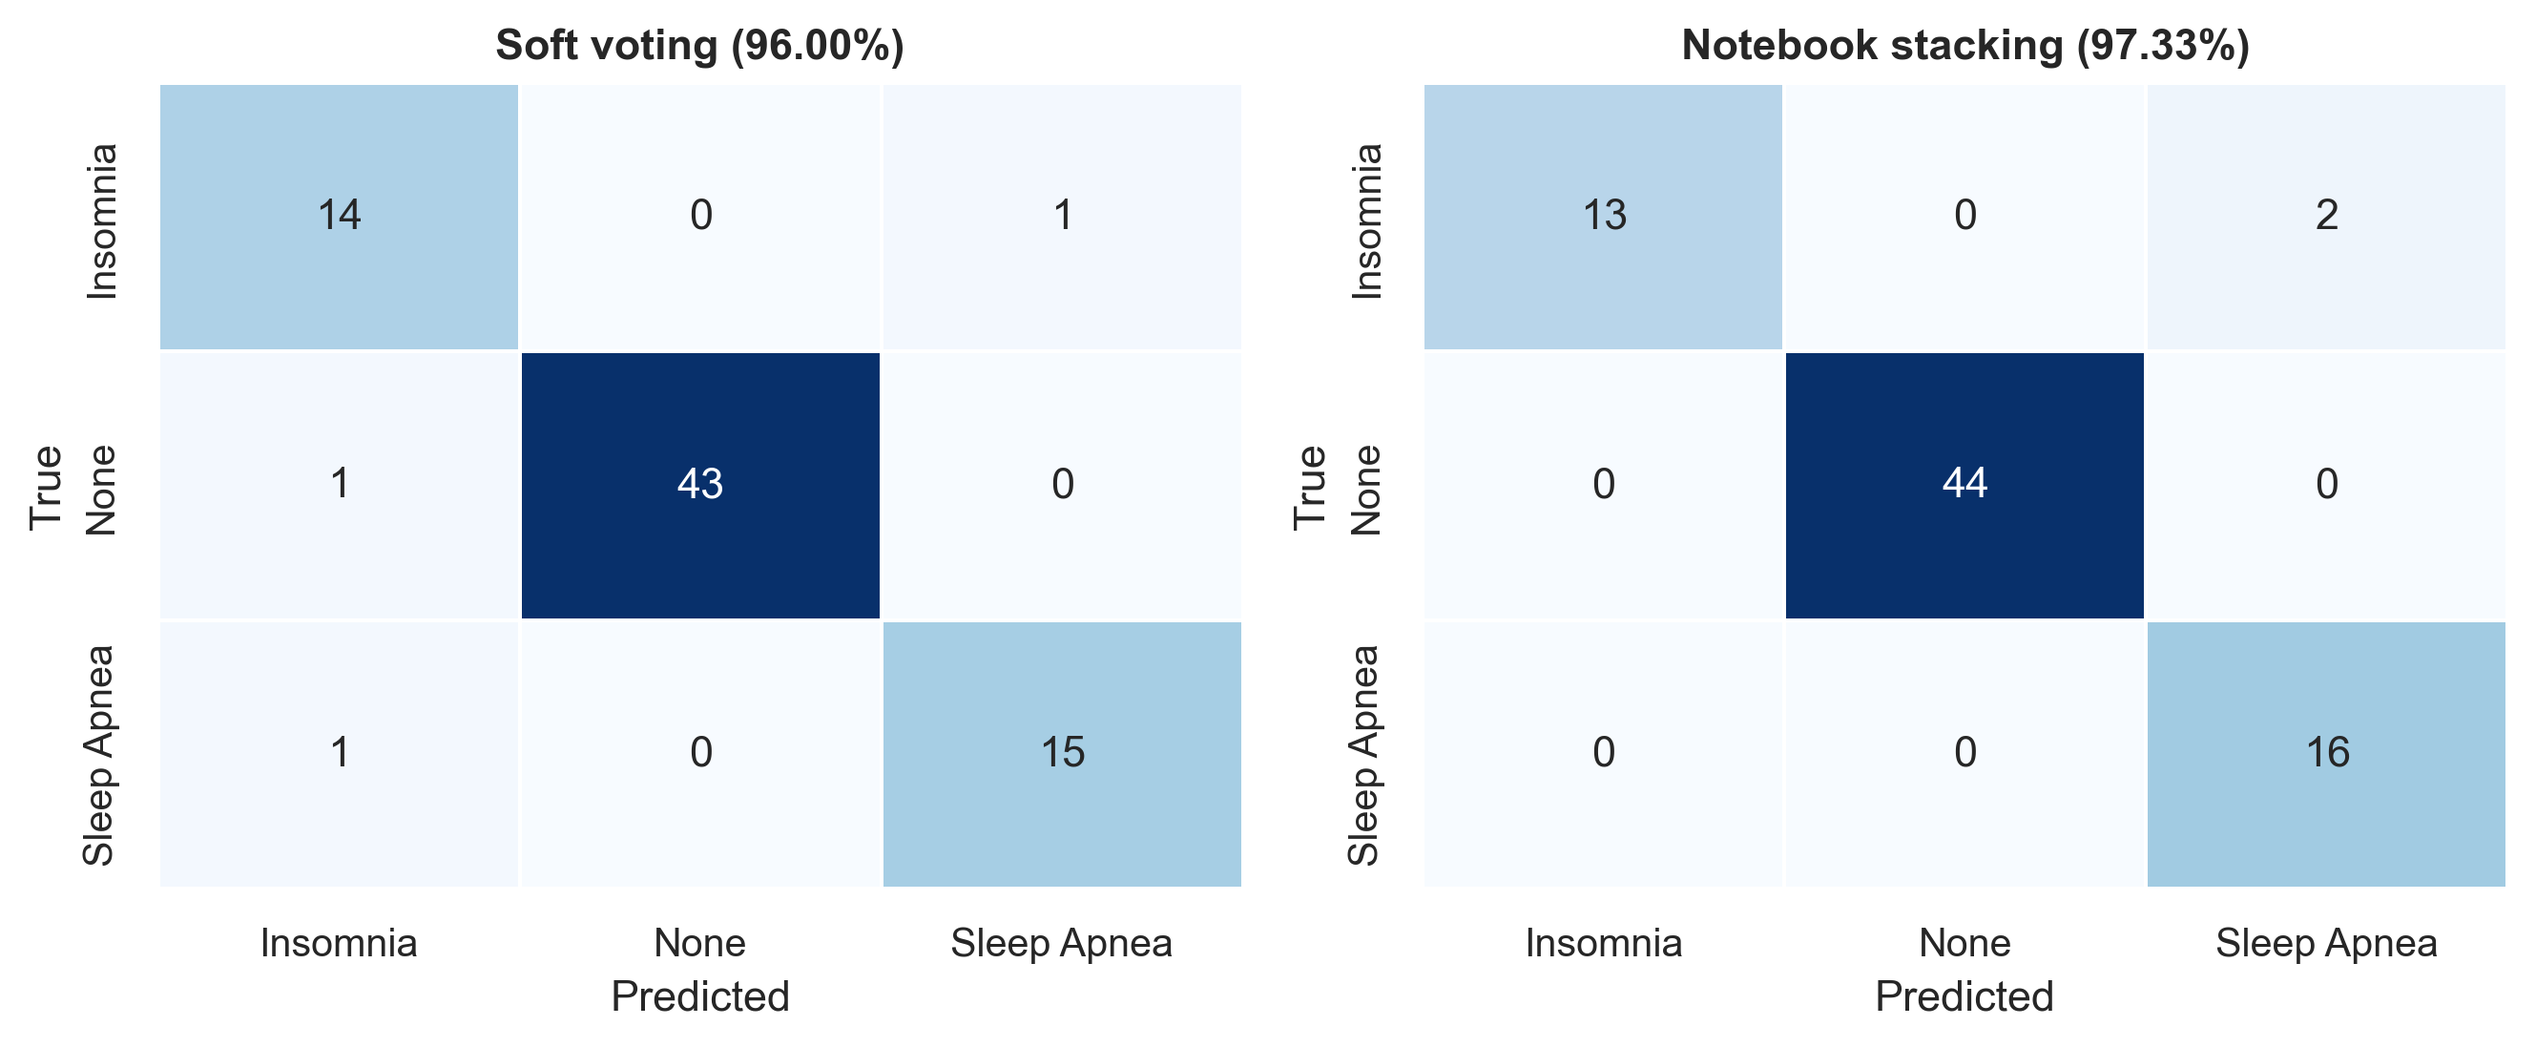
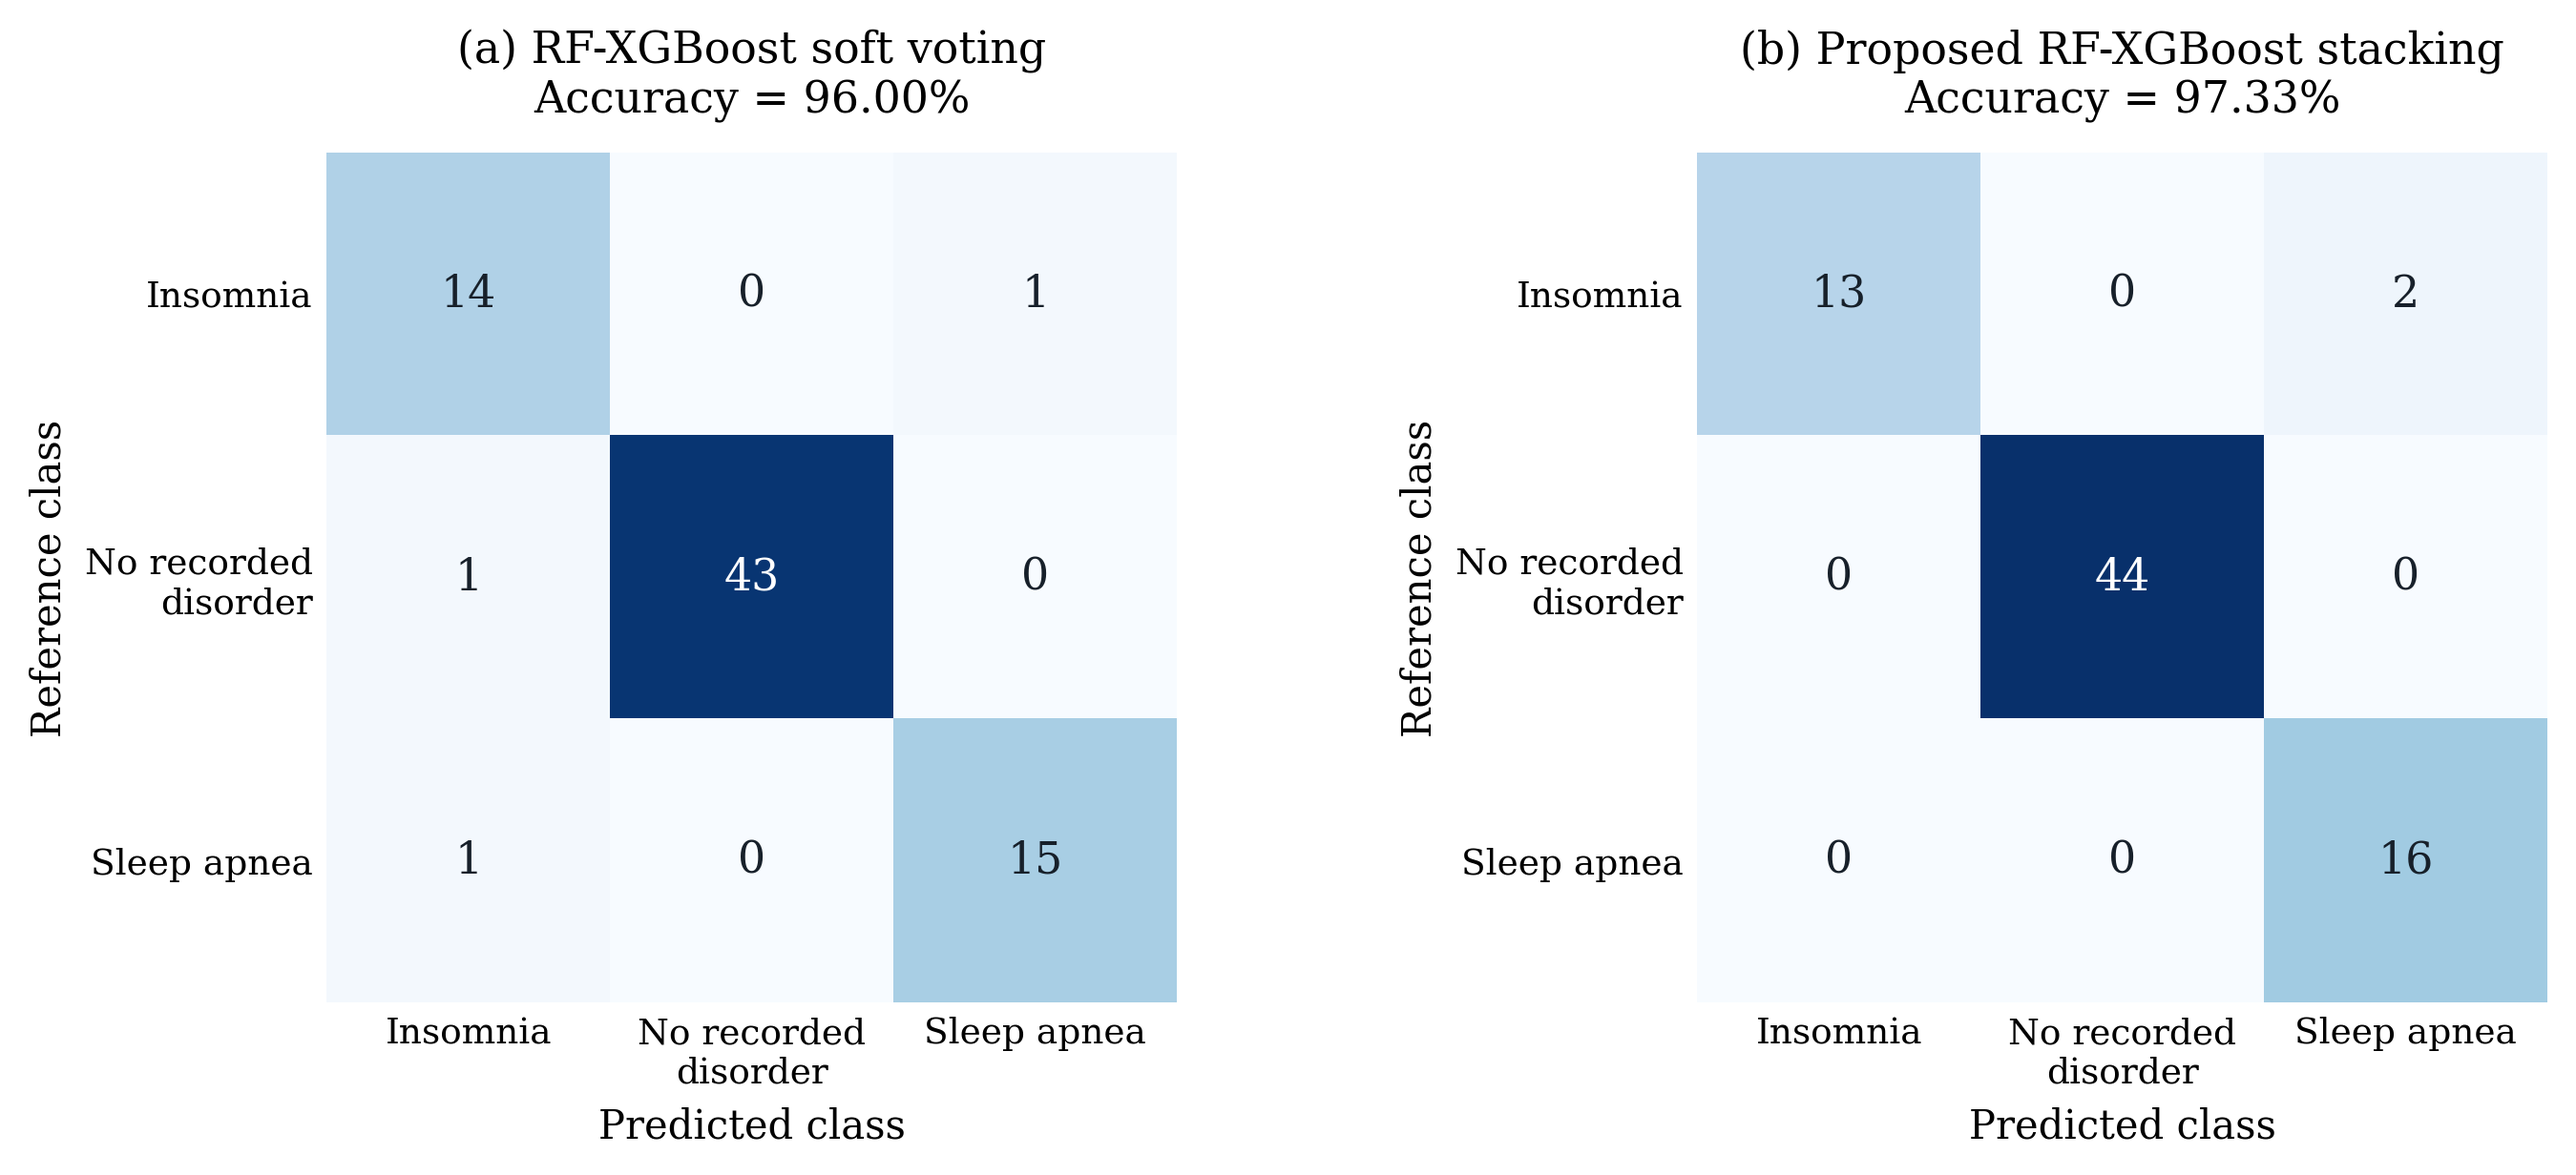
gnbx

diff --git a/main.tex b/main.tex
@@ -74,7 +74,7 @@ For structured data, tree-based ensembles remain competitive because they accomm
 \draw[arrow] (p)--(m);
 \draw[arrow] (m)--(e);
 \end{tikzpicture}
-\caption{Analytical workflow of the proposed risk-stratification framework. The held-out test partition remains isolated from preprocessing, model fitting, and meta-learner construction.}
+\caption{Study design and analytical workflow. The held-out test partition remains isolated from feature transformation, base-learner estimation, and meta-learner construction until final evaluation.}
 \label{fig:workflow}
 \end{figure}
 
@@ -93,7 +93,7 @@ Person ID was excluded because it contains ordering information without a plausi
 
 \begin{table}[t]
 \centering
-\caption{Cohort and variable characteristics used for model development.}
+\caption{Descriptive characteristics of the 374 observations used for model development and evaluation.}
 \label{tab:datasetprofile}
 \small
 \begin{tabular}{p{0.32\linewidth}p{0.22\linewidth}p{0.32\linewidth}}
@@ -115,7 +115,7 @@ Categorical cardinality & Gender 2; Occupation 11; BMI 4 & One-hot encoded after
 
 \begin{table}[t]
 \centering
-\caption{Variable audit and representation used by the pipeline.}
+\caption{Predictor groups, representative variables, and their computational treatment within the modelling pipeline.}
 \label{tab:variables}
 \small
 \begin{tabular}{p{0.24\linewidth}p{0.25\linewidth}p{0.42\linewidth}}
@@ -144,7 +144,7 @@ Target & Sleep Disorder & Label encoding into three classes \\
 \node[above,font=\scriptsize] at (1.0,219){219};\node[above,font=\scriptsize] at (2.2,77){77};\node[above,font=\scriptsize] at (3.4,78){78};
 \node[below,align=center,font=\scriptsize] at (1.0,0){No recorded\\disorder};\node[below,font=\scriptsize] at (2.2,0){Insomnia};\node[below,font=\scriptsize] at (3.4,0){Sleep Apnea};
 \end{tikzpicture}
-\caption{Outcome distribution following assignment of blank entries to no recorded disorder.}
+\caption{Outcome distribution after harmonisation. Blank outcome entries were assigned to no recorded disorder, yielding 219 observations with no recorded disorder, 77 with insomnia, and 78 with sleep apnea.}
 \label{fig:distribution}
 \end{figure}
 
@@ -158,7 +158,7 @@ Target & Sleep Disorder & Label encoding into three classes \\
 \draw[arrow] (r)--(n); \draw[arrow] (r)--(i); \draw[arrow] (r)--(s);
 \node[below=8mm of i,align=center,font=\small] {Three-class screening target\\not a clinical diagnostic label};
 \end{tikzpicture}
-\caption{Outcome harmonisation and the boundary between analytical labels and clinical diagnoses.}
+\caption{Operational construction of the three-class outcome. The resulting labels support benchmark classification and should not be interpreted as independently adjudicated clinical diagnoses.}
 \label{fig:target}
 \end{figure}
 
@@ -166,7 +166,7 @@ Target & Sleep Disorder & Label encoding into three classes \\
 An 80:20 stratified partition with random seed 42 produced a development set of 299 observations and an independent test set of 75 observations. The split was performed before numerical scaling, categorical encoding, or model fitting. All preprocessing parameters---including numerical means and variances, categorical vocabularies, and label mappings---were estimated from the development data and subsequently applied without modification to the test set. The same principle was maintained within cross-validation folds used to construct the stack. This ordering prevents evaluation-set information from influencing either the feature representation or the fitted decision function \cite{stats2024,kapoor2023}.
 
 \begin{algorithm}[t]
-\caption{Leakage-safe data preparation}
+\caption{Leakage-controlled preparation of development and test partitions}
 \label{alg:prep}
 \begin{algorithmic}[1]
 \Require Dataset $D$, target $y$, seed $s=42$
@@ -196,7 +196,7 @@ An 80:20 stratified partition with random seed 42 produced a development set of 
 \draw[arrow] (cat)--(out);
 \node[below=4mm of out,align=center,text width=105mm,font=\footnotesize] {The transformer is estimated on the development partition and applied unchanged to the held-out test partition.};
 \end{tikzpicture}
-\caption{Leakage-controlled feature engineering and representation pipeline.}
+\caption{Leakage-controlled feature-engineering pipeline. Numerical and categorical transformations are estimated exclusively from the development partition and applied unchanged to the held-out test partition.}
 \label{fig:preprocess}
 \end{figure}
 
@@ -205,7 +205,7 @@ The proposed architecture combines two tree-based learners with complementary bi
 
 \begin{table}[t]
 \centering
-\caption{Hyperparameter configuration of the proposed stacking model.}
+\caption{Hyperparameter configuration of the Random Forest and XGBoost base learners, logistic-regression meta-learner, and validation split.}
 \label{tab:hyper}
 \small
 \begin{tabular}{lll}
@@ -235,13 +235,14 @@ Validation & split / seed & 80:20 stratified / 42 \\
 \node[box,below=of meta] (y) {Class probability and label};
 \draw[arrow] (x)--(rf);\draw[arrow] (x)--(xgb);\draw[arrow] (rf)--(meta);\draw[arrow] (xgb)--(meta);\draw[arrow] (meta)--(y);
 \end{tikzpicture}
-\caption{Stacking architecture with complementary base learners.}
+\caption{Proposed heterogeneous stacking architecture. Random Forest and XGBoost generate class-probability vectors that are concatenated and passed to a logistic-regression meta-learner.}
 \label{fig:stack}
 \end{figure}
 
 \begin{algorithm}[t]
-\caption{Out-of-fold stacking prediction}
+\caption{Out-of-fold stacking for training and inference}
 \label{alg:stack}
+\small
 \begin{algorithmic}[1]
 \Require $(X'_{tr},y_{tr})$, test vector $x$, $K=5$ folds
 \Ensure Predicted class $\hat y$
@@ -260,14 +261,14 @@ Validation & split / seed & 80:20 stratified / 42 \\
 \begin{figure}[t]
 \centering
 \begin{tikzpicture}[node distance=5mm and 5mm]
-\node[box] (d) {Training partition};
-\node[box,right=of d] (f) {Fold 1--5};
-\node[box,right=of f] (o) {Out-of-fold probabilities};
-\node[box,right=of o] (l) {Fit meta-learner};
+\node[box] (d) {Development partition};
+\node[box,right=of d] (f) {Five stratified folds};
+\node[box,right=of f] (o) {Out-of-fold RF--XGBoost probabilities};
+\node[box,right=of o] (l) {Fit logistic meta-learner};
 \draw[arrow] (d)--(f);\draw[arrow] (f)--(o);\draw[arrow] (o)--(l);
-\draw[arrow] (l.south) -- ++(0,-7mm) -| node[pos=.25,below,font=\scriptsize]{final prediction} (d.south);
+\node[below=6mm of o,align=center,text width=95mm,font=\footnotesize] {Each development observation is predicted only by base learners that excluded it during fitting.};
 \end{tikzpicture}
-\caption{Cross-validation role in fitting the second-level learner.}
+\caption{Construction of the meta-learner training matrix. Out-of-fold probabilities prevent the second-level model from being fitted to in-sample base-learner predictions.}
 \label{fig:oof}
 \end{figure}
 
@@ -279,7 +280,7 @@ I_j=\frac{1}{n}\sum_{i=1}^{n}|\phi_{ij}|,
 where $\phi_{ij}$ denotes the attribution assigned to feature $j$ for observation $i$. LIME was used as a complementary local analysis: neighbourhoods were generated around individual test observations, the ensemble was queried on the perturbed samples, and an interpretable weighted linear surrogate approximated the local decision surface. Absolute LIME coefficients were aggregated only to assess broad agreement with SHAP rankings; they were not treated as a second estimate of causal importance. Both methods characterise the fitted prediction function, and correlated predictors may share or exchange attribution \cite{xaisurvey2023,explain2024,dependence2023}.
 
 \begin{algorithm}[t]
-\caption{Permutation-SHAP model audit}
+\caption{Permutation-SHAP procedure for global model auditing}
 \label{alg:shap}
 \begin{algorithmic}[1]
 \Require Fitted model $F$, training matrix $X_{tr}$, explanation sample $X_e$
@@ -304,7 +305,7 @@ where $\phi_{ij}$ denotes the attribution assigned to feature $j$ for observatio
 \node[box,below=of q] (r) {Mean $|\phi|$ ranking};
 \draw[arrow] (f)--(q);\draw[arrow] (b)--(p);\draw[arrow] (p)--(q);\draw[arrow] (q)--(r);
 \end{tikzpicture}
-\caption{Model-agnostic explanation pathway.}
+\caption{Model-agnostic explanation workflow. Perturbations are evaluated through the complete fitted pipeline and aggregated as mean absolute feature attributions.}
 \label{fig:shap}
 \end{figure}
 
@@ -318,7 +319,7 @@ The proposed stacking model correctly classified 73 of 75 test observations, yie
 
 \begin{table}[t]
 \centering
-\caption{Recorded class-wise performance on the 75-observation hold-out set.}
+\caption{Class-specific and aggregate predictive performance of the proposed stack on the 75-observation hold-out set.}
 \label{tab:metrics}
 \small
 \begin{tabular}{lrrrr}
@@ -345,7 +346,7 @@ Across the five ensemble configurations in Table~\ref{tab:basecomparison}, the p
 
 \begin{table}[H]
 \centering
-\caption{Accuracy comparison of the proposed approach with ensemble baselines; ANN results are from \cite{alom2024}.}
+\caption{Descriptive accuracy comparison between the proposed RF--XGBoost stack and ensemble baselines. ANN results were reported by Alom et al. \cite{alom2024}.}
 \label{tab:basecomparison}
 \small
 \begin{tabularx}{0.74\linewidth}{@{}X c@{}}
@@ -366,7 +367,7 @@ Because stacking and soft voting were evaluated on identical test observations, 
 
 \begin{table}[H]
 \centering
-\caption{Paired uncertainty analysis on the shared 75-record test set.}
+\caption{Paired uncertainty analysis comparing RF--XGBoost stacking with soft voting on the same 75 test observations.}
 \label{tab:stats}
 \small
 \begin{tabular}{p{0.47\linewidth}p{0.30\linewidth}}
@@ -386,14 +387,14 @@ Interpretation & Descriptive improvement; external validation required \\
 \begin{figure}[H]
 \centering
 \includegraphics[width=0.94\linewidth]{confusion_matrices.png}
-\caption{Confusion matrices for RF--XGBoost soft voting (left) and the proposed stacking model (right) on the common 75-observation test set.}
+\caption{Confusion matrices on the common 75-observation test set: (a) RF--XGBoost soft voting and (b) the proposed RF--XGBoost stack. Rows denote reference outcomes and columns denote predicted outcomes.}
 \label{fig:confusions}
 \end{figure}
 
 \begin{figure}[H]
 \centering
 \includegraphics[width=0.88\linewidth]{model_comparison.png}
-\caption{Accuracy comparison of ANN ensembles, RF--XGBoost soft voting, and the proposed RF--XGBoost stacking model.}
+\caption{Descriptive accuracy comparison across five ensemble configurations. ANN values were obtained from Alom et al. \cite{alom2024}; soft-voting and stacking values were estimated on the present hold-out set and are therefore not a matched external comparison.}
 \label{fig:modelcomparison}
 \end{figure}
 
@@ -402,8 +403,8 @@ Global SHAP analysis of the RF--XGBoost soft-voting comparator identified systol
 
 \begin{figure}[H]
 \centering
-\includegraphics[width=0.92\linewidth]{voting_shap_importance.png}
-\caption{Global feature importance for the RF--XGBoost soft-voting comparator, expressed as mean absolute SHAP values across the explanation sample.}
+\includegraphics[width=\linewidth]{voting_shap_importance.png}
+\caption{Global model dependence of the RF--XGBoost soft-voting comparator, quantified by mean absolute SHAP values across the explanation sample. Larger values indicate greater average influence on model output, irrespective of direction.}
 \label{fig:votingshap}
 \end{figure}
 
@@ -411,15 +412,15 @@ The LIME explanation in Fig.~\ref{fig:votinglime} characterises the local decisi
 
 \begin{figure}[H]
 \centering
-\includegraphics[width=0.80\linewidth]{voting_lime_sample0.png}
-\caption{Local LIME explanation for a representative test observation classified as insomnia by the RF--XGBoost soft-voting comparator. Green bars increase and red bars decrease the local class score.}
+\includegraphics[width=0.58\linewidth]{voting_lime_sample0.png}
+\caption{Local LIME explanation for one test observation classified as insomnia by the RF--XGBoost soft-voting comparator. Green bars increase and red bars decrease the local insomnia score; magnitudes are specific to this observation.}
 \label{fig:votinglime}
 \end{figure}
 
 \begin{figure}[H]
 \centering
 \includegraphics[width=0.78\linewidth]{shap_lime_radar.png}
-\caption{Comparison of normalised global SHAP importance and aggregated absolute LIME weights. The values describe model dependence and should not be interpreted causally.}
+\caption{Cross-method comparison of normalised global SHAP importance and aggregated absolute LIME weights. Agreement reflects consistency in model dependence across explanation methods and does not establish causal relevance.}
 \label{fig:shaplime}
 \end{figure}
 
@@ -435,7 +436,7 @@ SHAP and LIME add complementary views of model behaviour, but neither resolves c
 
 \begin{table}[H]
 \centering
-\caption{Reproducibility and clinical-translation checklist.}
+\caption{Reproducibility and clinical-translation requirements, current study status, and actions required before prospective evaluation.}
 \label{tab:checklist}
 \footnotesize
 \renewcommand{\arraystretch}{1.12}
